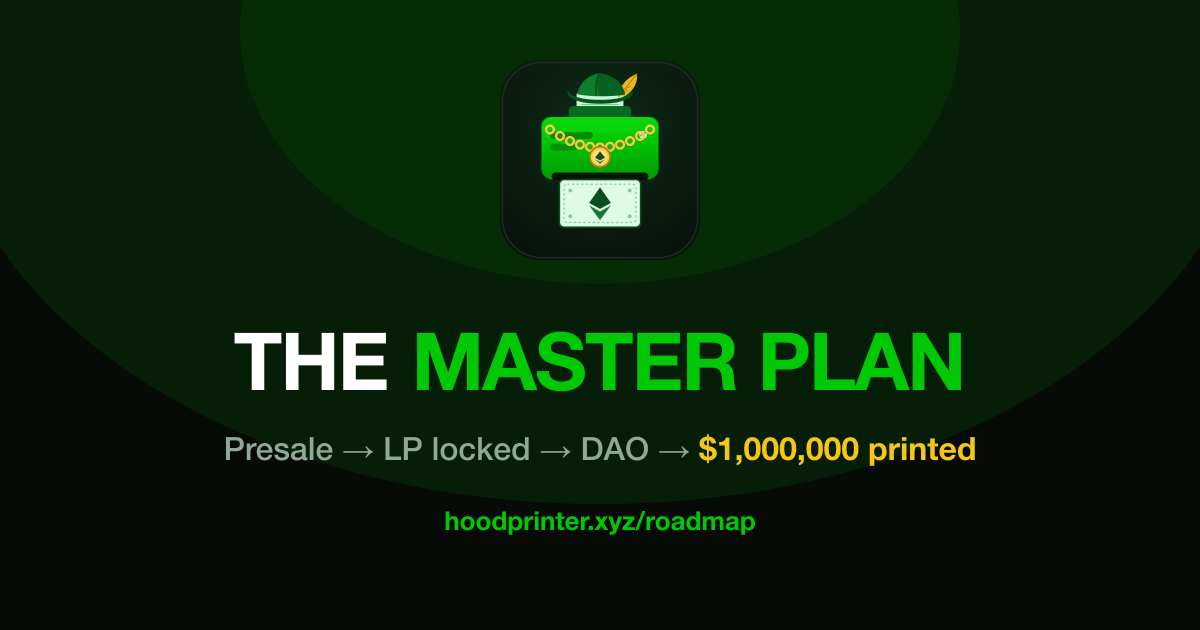
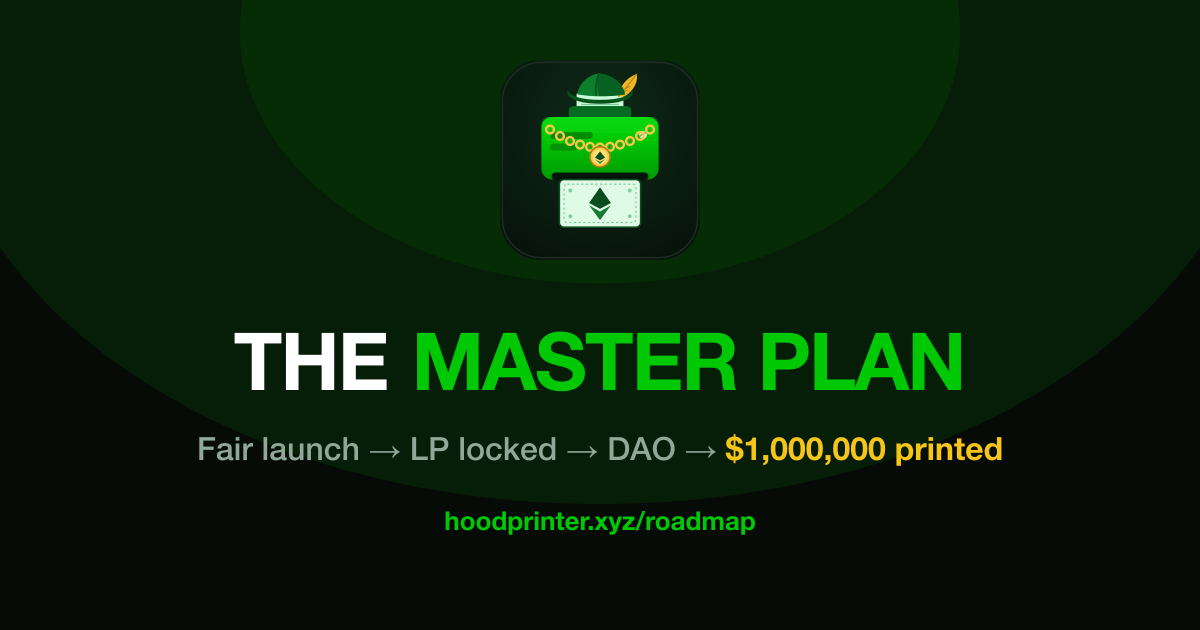
Give /rwa a bespoke OG share image, fix stale Presale text on roadmap's
/rwa was falling back to the generic homepage og.png. Added a proper
product-card OG image (matching the /print and /multisend bespoke layout):
RWA Pools headline, the 5% ETH rewards backed by RWAs subhead, and five
ticker chips (NVDA/TSLA/SPCX/AAPL/MSFT) colored to match each pool card's
accent on the live page. Wired into /rwa's metadata (og:image + twitter:image).

Also caught og-roadmap.png still saying 'Presale -> LP locked -> DAO' -
stale from before the GemPad-to-fair-launch pivot; the roadmap's first
phase is 'Fair Launch' now, not a presale, so the image contradicted the
page it represents. Fixed the caption to match.

Audited metadata sitewide while in here: titles, descriptions, canonicals,
JSON-LD, sitemap, robots (index/noindex), and GA/GSC config all check out -
no other stale OG images or metadata found. Buy Bot/Multisend OG images
regenerate byte-identical (confirmed via git diff), so untouched.

Changed region(s): [[0.1542, 0.6937, 0.8325, 0.754]]

diff --git a/app/rwa/page.tsx b/app/rwa/page.tsx
@@ -36,7 +36,7 @@ export const metadata: Metadata = {
     locale: "en_US",
     images: [
       {
-        url: "/brand/og.png?v=4",
+        url: "/brand/og-rwa.png?v=1",
         width: 1200,
         height: 630,
         alt: "HOODPrinter RWA Pools — $PRINT paired with Robinhood Chain Stock Tokens",
@@ -49,7 +49,7 @@ export const metadata: Metadata = {
     creator: "@HOODPrinterxyz",
     title,
     description,
-    images: ["/brand/og.png?v=4"],
+    images: ["/brand/og-rwa.png?v=1"],
   },
 };
 